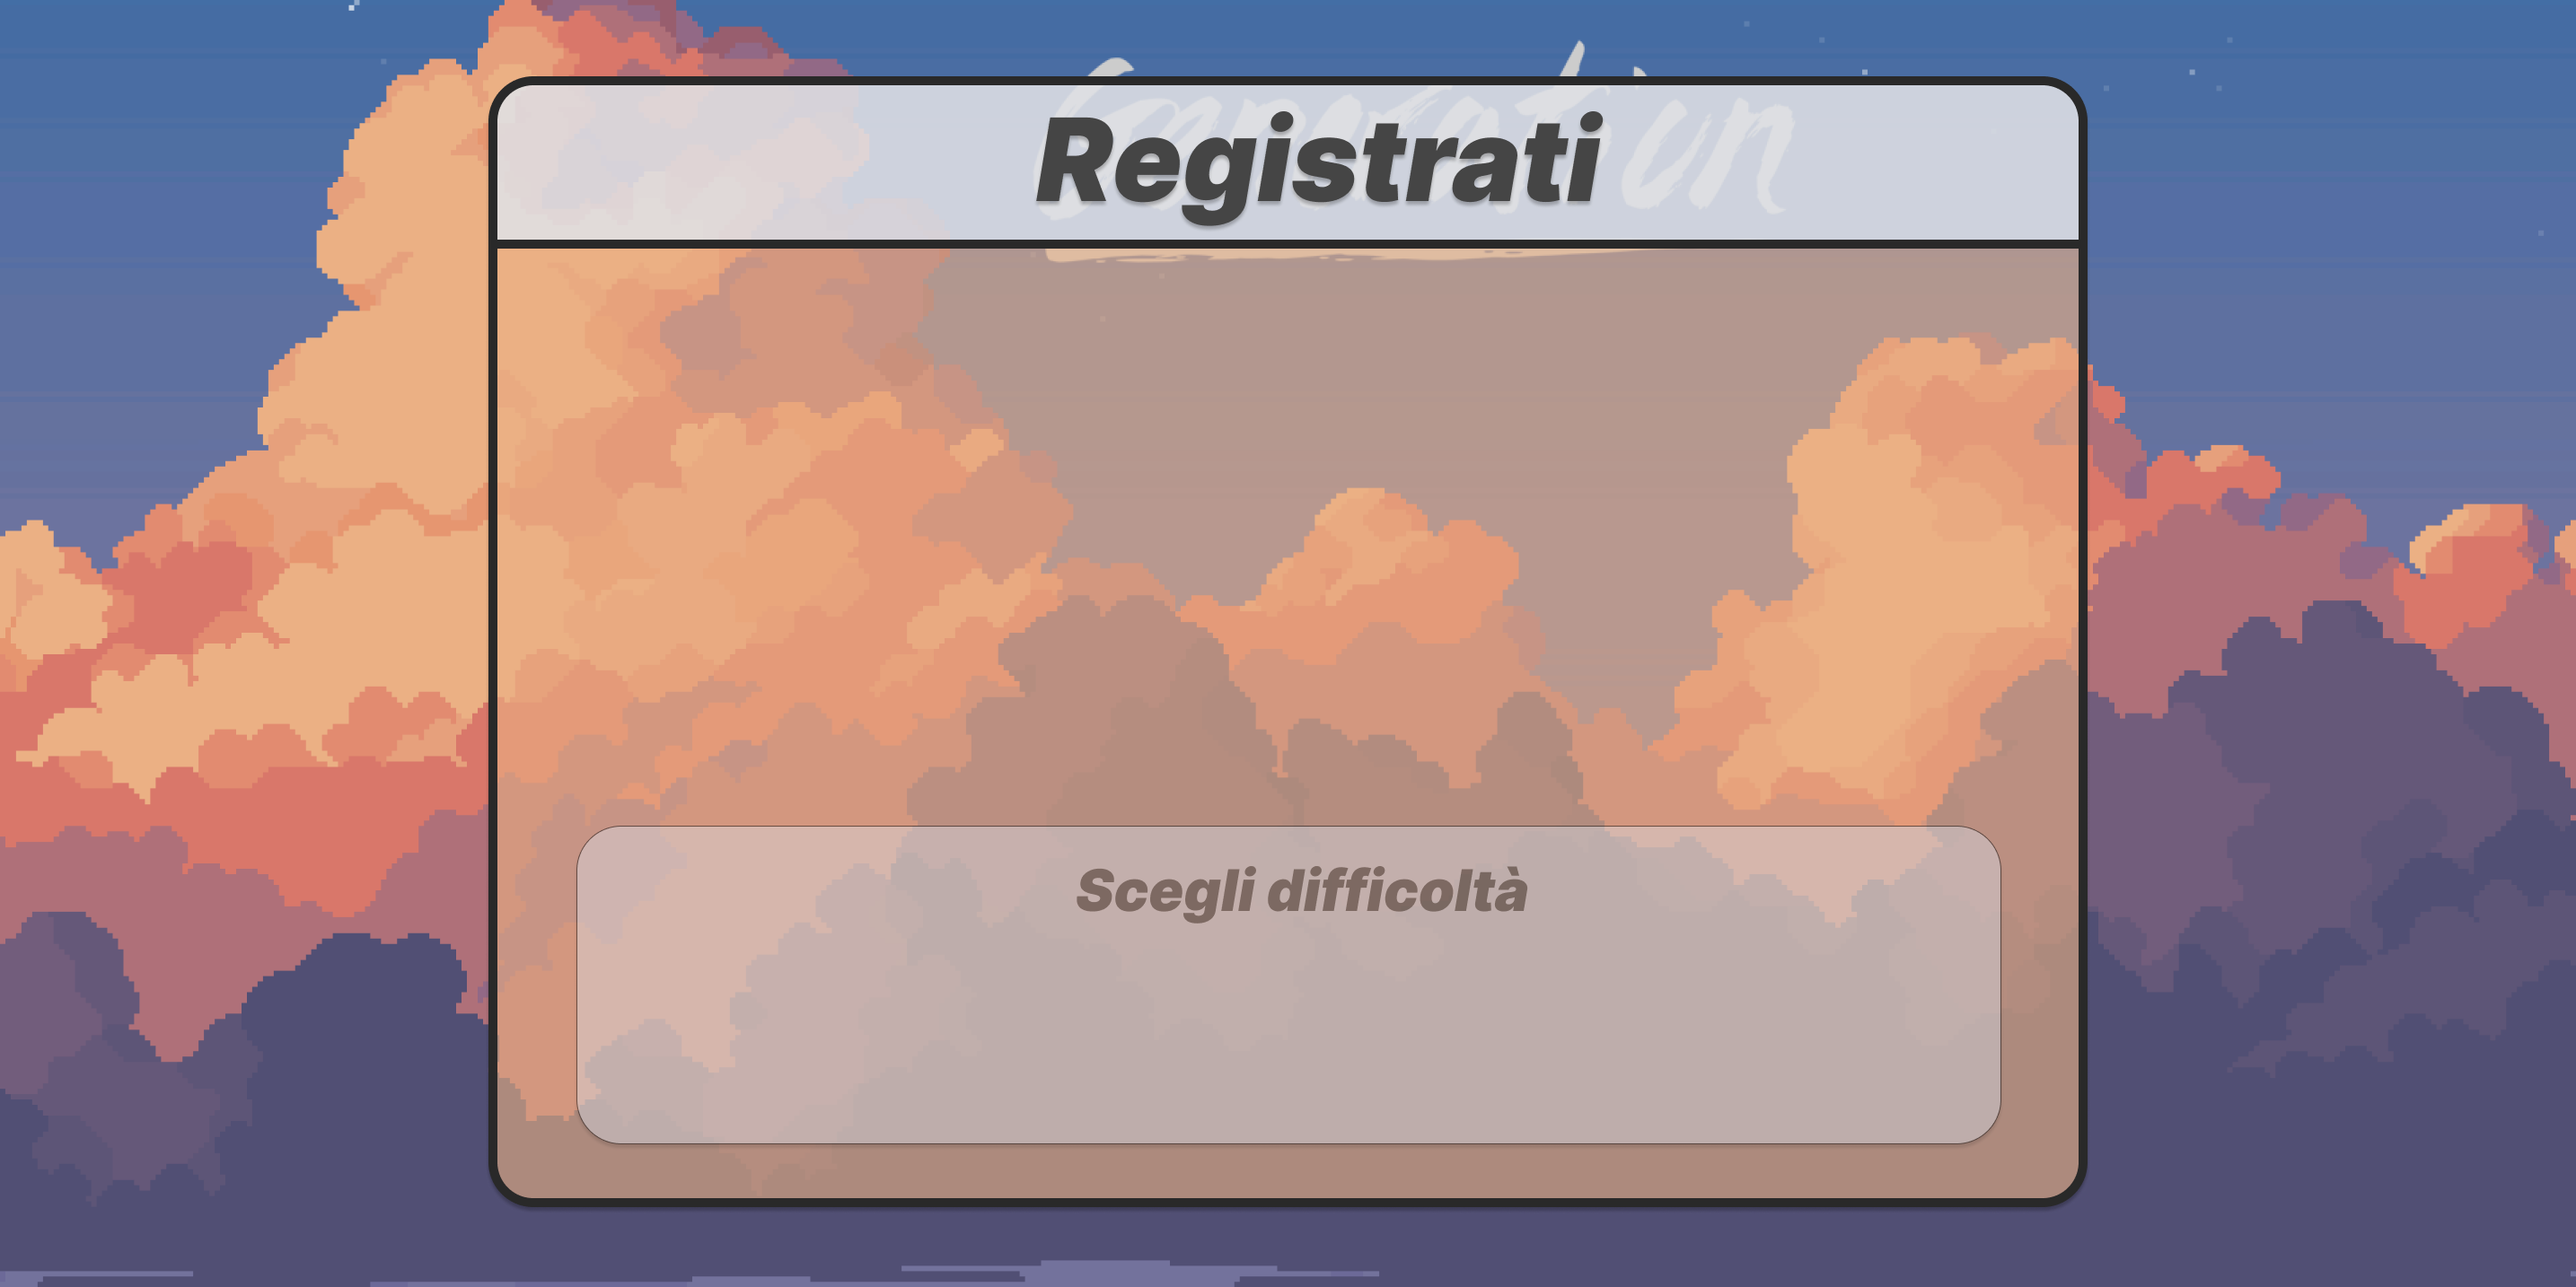
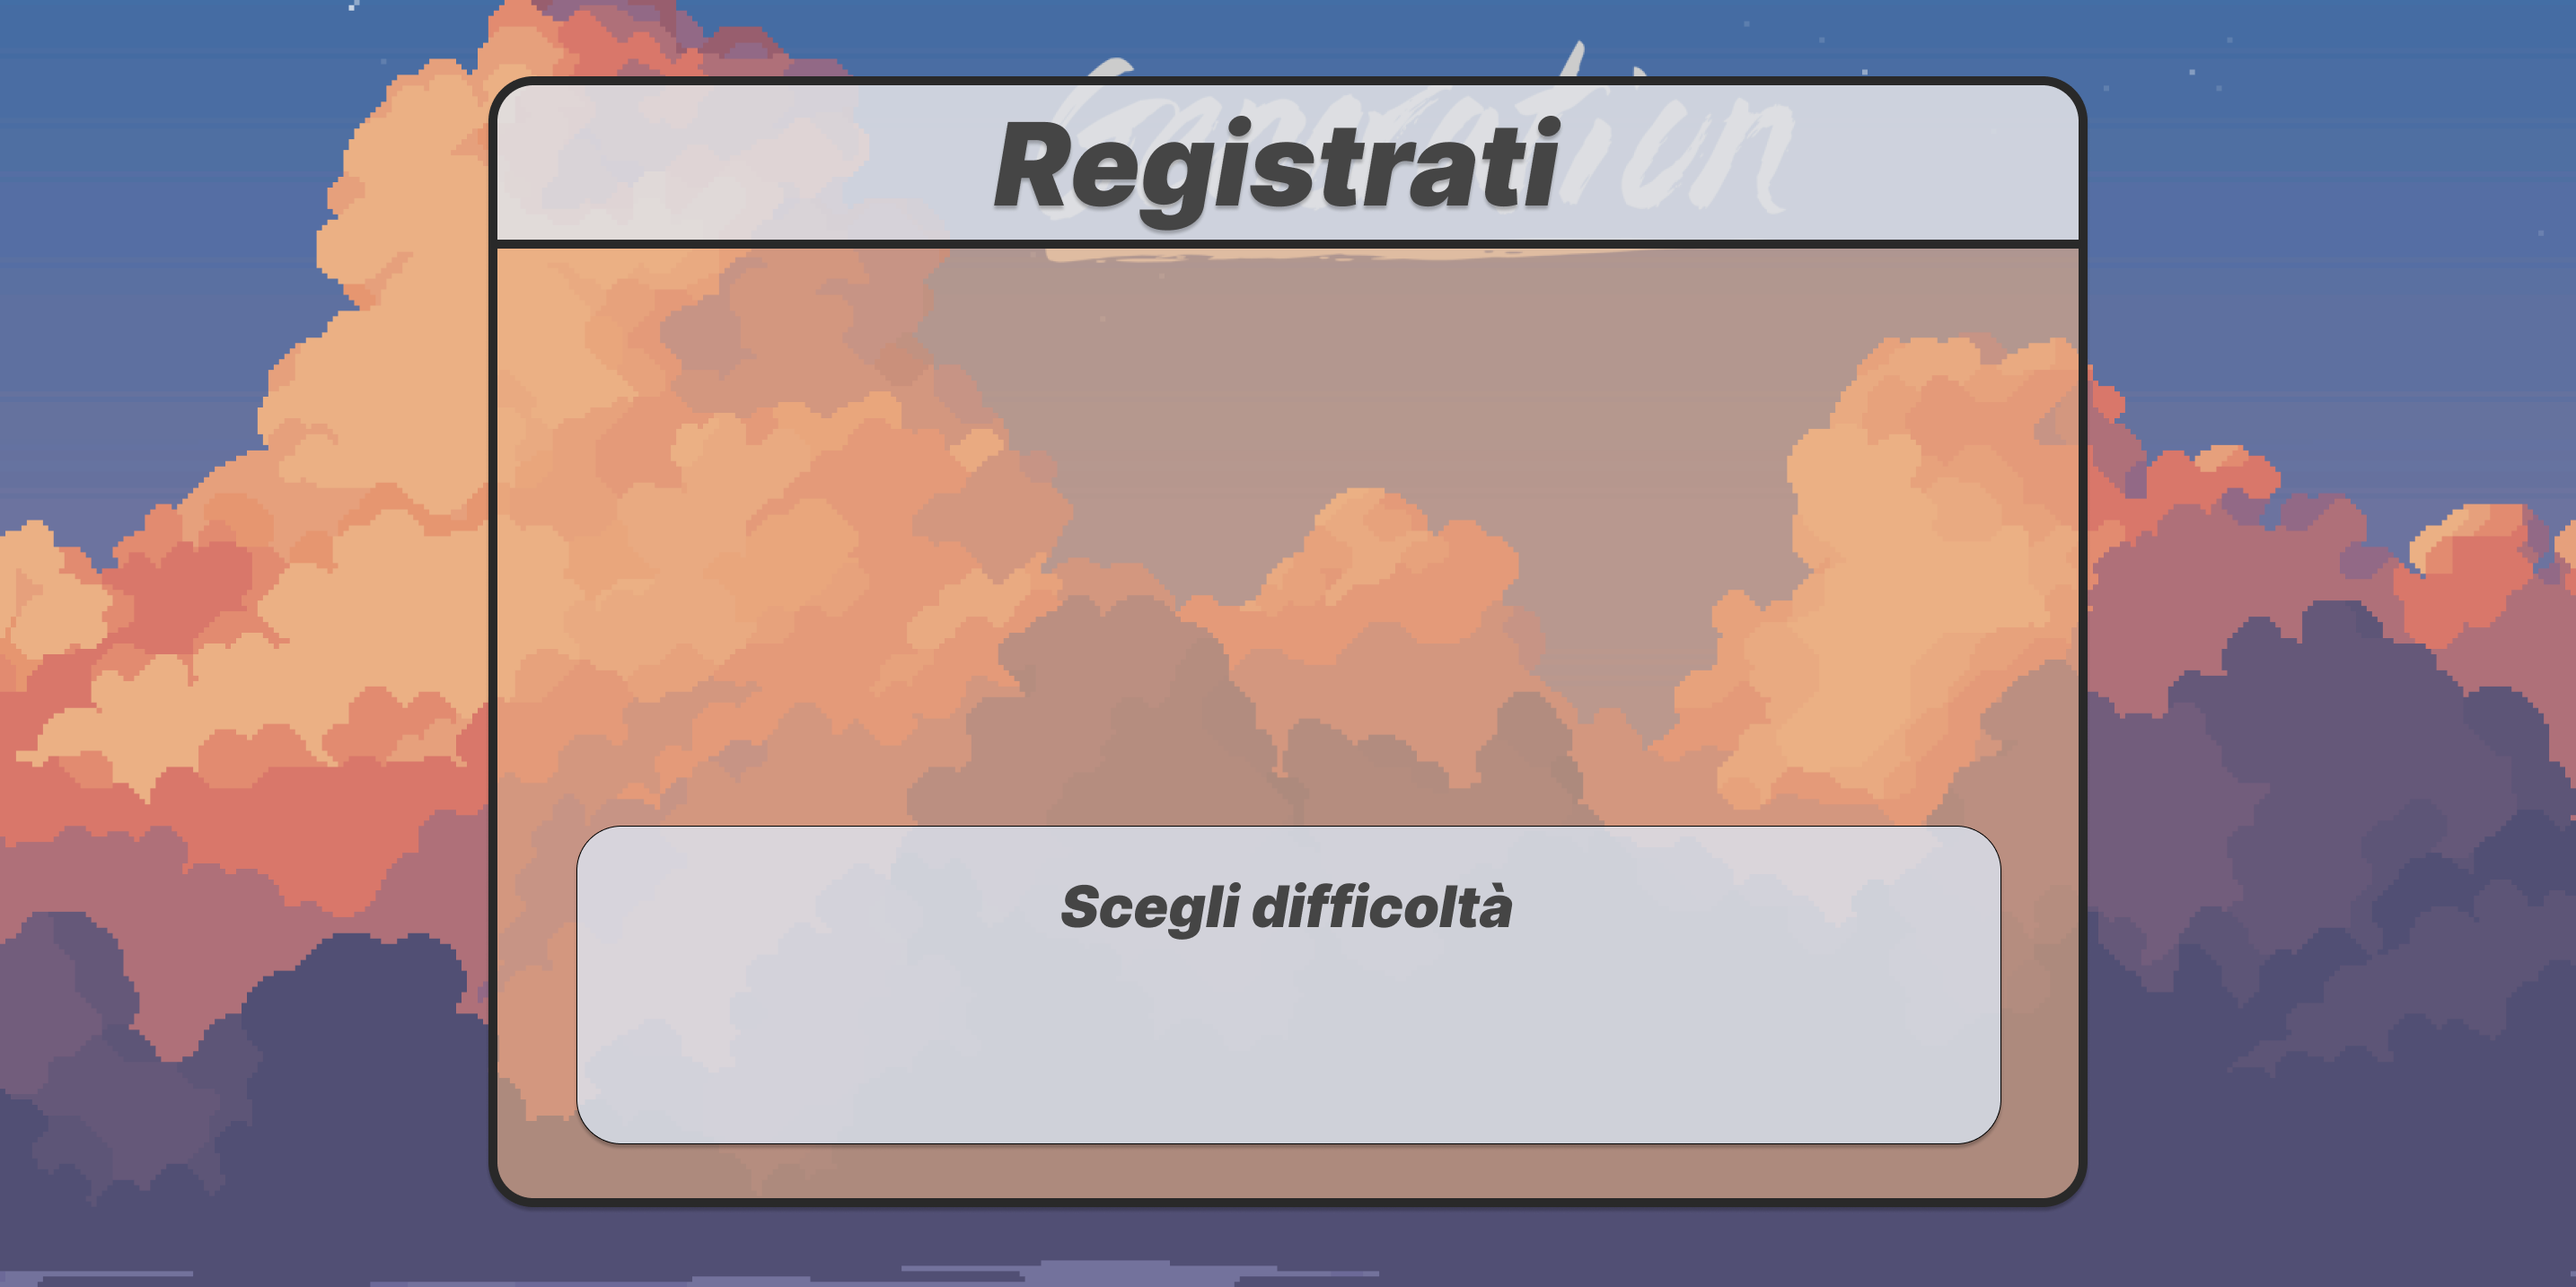
Schermata registrazione + creazione user (da vedere)

Changed region(s): [[0.2171, 0.6444, 0.7755, 0.8898], [0.3723, 0.0921, 0.6204, 0.1841]]

diff --git a/src/app/Component/schermata-registrati/schermata-registrati.component.html b/src/app/Component/schermata-registrati/schermata-registrati.component.html
@@ -1,7 +1,5 @@
-<a routerLink="benvenuto">
-  <button (click)="saveUser()">
-    <img posizione [x]="1026.5" [y]="60" [w]="148" [h]="55" src="sfondi_schermate/register/bottone_avanti.png" alt="bottone_avanti" />
-  </button>
+<a routerLink="benvenuto" (click)="saveUser()">
+    <img posizione [x]="1026.5" [y]="60" [w]="148" [h]="55" src="sfondi_schermate/register/avanti_button.png" alt="bottone_avanti" />
 </a>
 <a routerLink="">
   <img posizione [x]="370" [y]="59" [w]="63" [h]="57" src="sfondi_schermate/register/x_button.png" alt="x_button" />
@@ -34,17 +32,17 @@
      class="transparent-button"
      posizione [x]="1090" [y]="365" [w]="30" [h]="25"
      (click)="showPassword = !showPassword">
-  <img *ngIf="showPassword; else hideIcon" src="sfondi_schermate/register/eye.png" alt="Mostra password">
+  <img *ngIf="showPassword; else hideIcon" src="sfondi_schermate/register/show_button.png" alt="Mostra password">
   <ng-template #hideIcon>
-    <img src="sfondi_schermate/register/eye_hide.png" alt="Nascondi password">
+    <img src="sfondi_schermate/register/hide_button.png" alt="Nascondi password">
   </ng-template>
   </button>
   <br>
 
  <div class="image-container">
   <!-- Bottone "Facile" -->
-  <div (mouseenter)="onMouseEnter(0)" (mouseleave)="onMouseLeave(0)" (click)="selectDifficulty('EASY')">
-    <!-- Immagine del bottone -->
+  <div (mouseenter)="onMouseEnter(0)" (mouseleave)="onMouseLeave(0)" (click)="selectDifficulty('EASY')"
+       [ngClass]="{'selected': selectedButton === 'EASY'}">
     <img
       posizione
       [x]="440" [y]="531"
@@ -52,21 +50,19 @@
       [src]="items[0].baseImage"
       alt="bottone_facile"
       class="base-image" />
-
-    <!-- Immagine dell'hover -->
     <img
       *ngIf="items[0].isHovered"
       posizione
-      [x]="383" [y]="425"
-      [w]="290" [h]="110"
+      [x]="361" [y]="415"
+      [w]="330" [h]="125"
       [src]="items[0].hoverImage"
       alt="modalita_facile"
       class="hover-image" />
   </div>
 
    <!-- Bottone "Intermedio" -->
-  <div (mouseenter)="onMouseEnter(1)" (mouseleave)="onMouseLeave(1)" (click)="selectDifficulty('MEDIUM')">
-    <!-- Immagine del bottone -->
+  <div (mouseenter)="onMouseEnter(1)" (mouseleave)="onMouseLeave(1)" (click)="selectDifficulty('MEDIUM')"
+       [ngClass]="{'selected': selectedButton === 'MEDIUM'}">
     <img
       posizione
       [x]="680" [y]="531"
@@ -74,21 +70,19 @@
       [src]="items[1].baseImage"
       alt="bottone_intermedio"
       class="base-image" />
-
-    <!-- Immagine dell'hover -->
     <img
       *ngIf="items[1].isHovered"
       posizione
-      [x]="620" [y]="425"
-      [w]="290" [h]="110"
+      [x]="603" [y]="415"
+      [w]="330" [h]="125"
       [src]="items[1].hoverImage"
       alt="modalita_intermedia"
       class="hover-image" />
   </div>
 
    <!-- Bottone "Avanzato" -->
-  <div (mouseenter)="onMouseEnter(2)" (mouseleave)="onMouseLeave(2)" (click)="selectDifficulty('HARD')">
-    <!-- Immagine del bottone -->
+  <div (mouseenter)="onMouseEnter(2)" (mouseleave)="onMouseLeave(2)" (click)="selectDifficulty('HARD')"
+       [ngClass]="{'selected': selectedButton === 'HARD'}">
     <img
       posizione
       [x]="920" [y]="531"
@@ -96,13 +90,11 @@
       [src]="items[2].baseImage"
       alt="bottone_avanzato"
       class="base-image" />
-
-    <!-- Immagine dell'hover -->
     <img
       *ngIf="items[2].isHovered"
       posizione
-      [x]="865" [y]="425"
-      [w]="290" [h]="110"
+      [x]="845" [y]="415"
+      [w]="330" [h]="125"
       [src]="items[2].hoverImage"
       alt="modalita_avanzata"
       class="hover-image" />

diff --git a/src/app/Component/schermata-registrati/schermata-registrati.component.ts b/src/app/Component/schermata-registrati/schermata-registrati.component.ts
@@ -4,13 +4,13 @@ import { BackgroundService } from "../../../../services/background.service";
 import { FormsModule } from "@angular/forms";
 import { UserDTOReq } from "../../model/UserDTOReq";
 import { PosizionaDirective } from "../../direttive/posiziona.directive";
-import { NgForOf, NgIf } from "@angular/common";
+import {NgClass, NgForOf, NgIf} from "@angular/common";
 import {HttpService} from "../../services/http-service.service";
 
 
 @Component({
   selector: "app-schermata-registrati",
-  imports: [FormsModule, PosizionaDirective, NgIf, NgForOf, RouterLink],
+  imports: [FormsModule, PosizionaDirective, NgIf, NgForOf, RouterLink, NgClass],
   templateUrl: "./schermata-registrati.component.html",
   standalone: true,
   styleUrls: ["./schermata-registrati.component.css"]
@@ -25,7 +25,9 @@ export class SchermataRegistratiComponent {
     difficulty: "EASY" // Valore predefinito come stringa
   };
 
-  selectedDifficulty: string = "EASY"; // Predefinito
+  // Valore predefinito
+  selectedDifficulty: string = "EASY";
+  selectedButton: string = 'EASY';
 
   // Array di oggetti che rappresentano i bottoni di difficoltà
   items = [
@@ -63,6 +65,7 @@ export class SchermataRegistratiComponent {
   // Metodo per selezionare la difficoltà (EASY,MEDIUM,HARD)
   selectDifficulty(difficulty: string) {
     this.selectedDifficulty = difficulty;
+    this.selectedButton = difficulty;
     this.user.difficulty = difficulty; // Aggiorna la difficoltà nel modello user
   }
 
@@ -76,6 +79,6 @@ export class SchermataRegistratiComponent {
   }
 
   constructor(private service: BackgroundService, private route: Router,private httpService: HttpService) {
-    this.service.changeBackground("register/schermata_registrazioneProva.png");
+    this.service.changeBackground("register/schermata_registrazione.png");
   }
 }

diff --git a/src/app/Component/schermata-registrati/schermata-registrati.component.css b/src/app/Component/schermata-registrati/schermata-registrati.component.css
@@ -23,10 +23,10 @@ a img {
 
 /* SCSS per input scontornato */
 .scontornato-input {
-  border: 1px solid #ccc; /* Bordo sottile, colore chiaro */
+  border: 1px solid #000000; /* Bordo sottile, colore chiaro */
   border-radius: 20px; /* Angoli arrotondati per un aspetto più morbido */
   padding: 12px 20px; /* Padding più ampio per un look più morbido */
-  background-color: rgba(221, 238, 255, 0.71); /* Colore di sfondo con opacità al 71% */
+  background-color: rgb(221, 238, 255, 0.71); /* Colore di sfondo con opacità al 71% */
   font-size: 30px; /* Adatta la dimensione del testo */
 
   /* Centrare il testo del placeholder */
@@ -74,4 +74,16 @@ a img {
 
 .image-container .base-image:hover + .hover-image {
   display: block; /* Mostra l'immagine hover quando il mouse è sopra la base */
+}
+
+.selected {
+  box-shadow: 0 4px 8px rgba(0, 0, 0, 0.2); /* Ombra per dare l'effetto "premuto" */
+}
+
+.selected .base-image {
+  opacity: 0.5; /* Riduci l'opacità dell'immagine base quando selezionato */
+}
+
+.selected .hover-image {
+  opacity: 1; /* Mantieni visibile l'immagine hover quando selezionato */
 }

diff --git a/src/app/Component/schermata-login/schermata-login.component.ts b/src/app/Component/schermata-login/schermata-login.component.ts
@@ -25,7 +25,7 @@ export class SchermataLoginComponent {
     email: "",
     username: "",
     password: "",
-    difficulty: "EASY"
+    difficulty: ""
 
   }
 }
